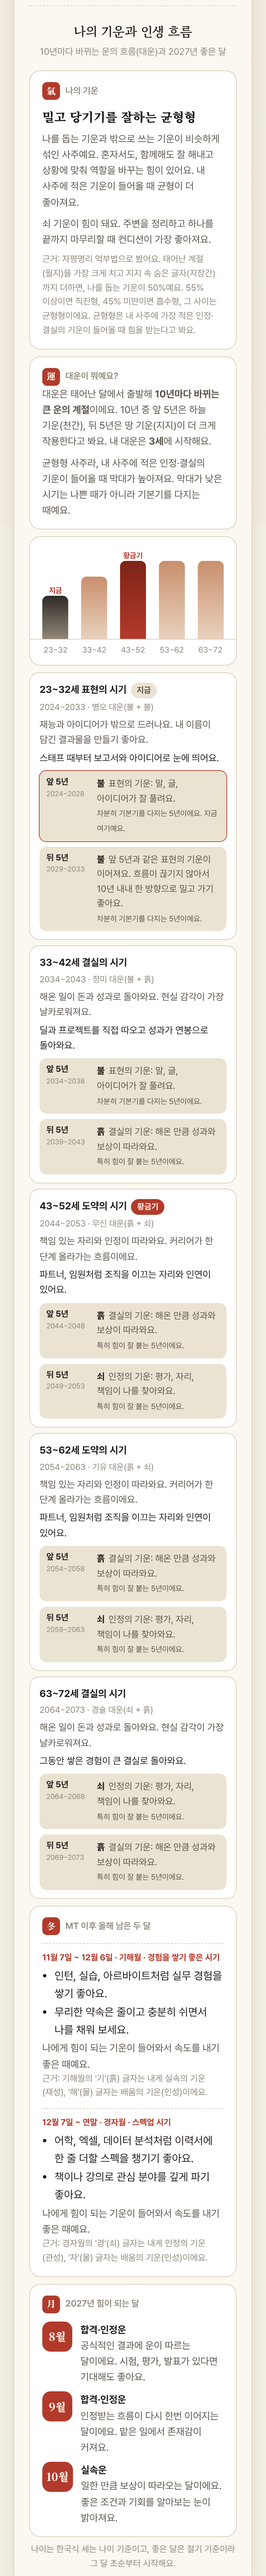
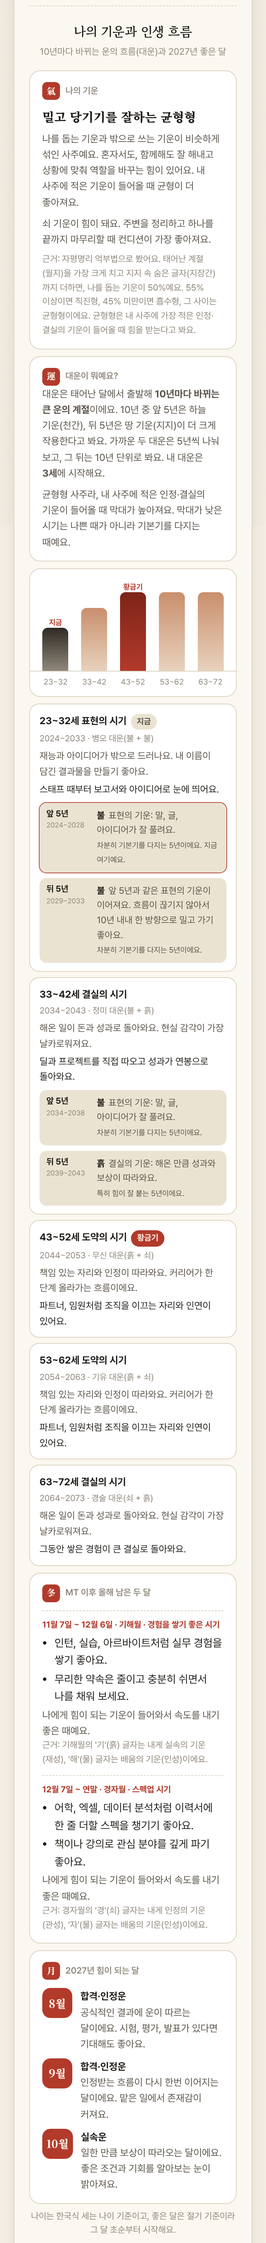
대운 앞뒤 5년 풀이는 가까운 두 대운에만
Claude-Session: https://claude.ai/code/session_012bKZfKrCyZ1atjBTGebht7

diff --git a/public/index.html b/public/index.html
@@ -811,7 +811,7 @@
       const intro = f.intro ? `
         <article class="read-card" style="margin-top:10px">
           <div class="read-head"><span class="read-icon">運</span><span class="read-label">대운이 뭐예요?</span></div>
-          <p>대운은 태어난 달에서 출발해 <b>10년마다 바뀌는 큰 운의 계절</b>이에요. 10년 중 앞 5년은 하늘 기운(천간), 뒤 5년은 땅 기운(지지)이 더 크게 작용한다고 봐요.${f.intro.start ? ` 내 대운은 <b>${f.intro.start}세</b>에 시작해요.` : ''}</p>
+          <p>대운은 태어난 달에서 출발해 <b>10년마다 바뀌는 큰 운의 계절</b>이에요. 10년 중 앞 5년은 하늘 기운(천간), 뒤 5년은 땅 기운(지지)이 더 크게 작용한다고 봐요. 가까운 두 대운은 5년씩 나눠 보고, 그 뒤는 10년 단위로 봐요.${f.intro.start ? ` 내 대운은 <b>${f.intro.start}세</b>에 시작해요.` : ''}</p>
           <p class="more">${f.intro.why} 막대가 낮은 시기는 나쁜 때가 아니라 기본기를 다지는 때예요.</p>
         </article>` : '';
       box.innerHTML = `

diff --git a/lib/flow.js b/lib/flow.js
@@ -244,6 +244,8 @@ export function readFlow(saju, birthYear) {
     });
   }
   decades = decades.slice(0, 5);
+  // 앞뒤 5년 풀이는 가까운 두 대운(지금과 다음)에만 붙인다. 그 뒤는 먼 미래라 10년 단위로만 본다.
+  decades.forEach((d, i) => { if (i >= 2) delete d.halves; });
   // 낮은 시기도 0으로 보이지 않게 55~100 사이로 그린다
   const max = Math.max(...decades.map((d) => d.score), 0.1);
   for (const d of decades) d.level = Math.round(55 + (d.score / max) * 45);

diff --git a/README.md b/README.md
@@ -22,7 +22,7 @@
 
 1. **사주와 나**: (편성이 공개되면 맨 위에) 내 MT조(조 설명, 조 기운, 조원별 궁합을 잘 맞는 순서로), 일주 동물, 사주 여덟 글자와 오행 분포, 연애·재물 풀이, 매력 지수와 신살(도화·홍염·역마·괴강), 2027년 운세, 나와 잘 맞는 사람
 2. **회계사 커리어**: 입사 부서 1·2순위(감사·세무·딜·컨설팅 중, 강점과 근거), 그다음 커리어(파트너·이직·개업, 대운 황금기와 연결), 일하는 스타일, 2027년 커리어 흐름
-3. **인생 흐름**: 나의 기운(직진형·균형형·흡수형과 % 근거), 대운 그래프와 10년 카드(연도·간지·앞/뒤 5년), MT 이후 올해 남은 두 달, 2027년 힘이 되는 달
+3. **인생 흐름**: 나의 기운(직진형·균형형·흡수형과 % 근거), 대운 그래프와 10년 카드(연도·간지, 가까운 두 대운은 앞/뒤 5년), MT 이후 올해 남은 두 달, 2027년 힘이 되는 달
 
 ## AI를 어디에 쓰고, 어디에 안 쓰는가
 
